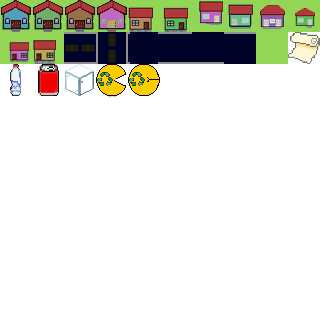
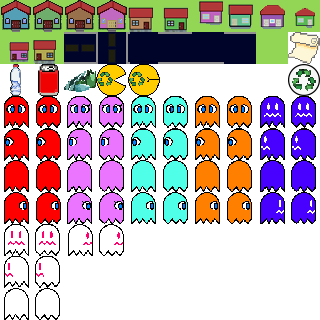
feat: the best tiles you will ever gonna see

diff --git a/internal/game/scene-level.go b/internal/game/scene-level.go
@@ -1,6 +1,7 @@
 package game
 
 import (
+	"image/color"
 	"math"
 	"pac-clone/internal/entities"
 	"pac-clone/internal/level"
@@ -14,37 +15,16 @@ import (
 )
 
 var (
-	level_loaded    bool = false
-	blinkyTex       rl.Texture2D
-	pinkyTex        rl.Texture2D
-	inkyTex         rl.Texture2D
-	clideTex        rl.Texture2D
-	tile            rl.Texture2D
-	start           *utils.Timer
-	tileTableStreet = map[Conection]rl.Vector2{
-		Horizontal: {X: 2, Y: 1},
-		Vertical:   {X: 3, Y: 1},
-		None:       {X: 4, Y: 1},
-	}
-	tileTable = map[Pick][]rl.Vector2{
-		Wall:   {{X: 0, Y: 0}, {X: 1, Y: 0}, {X: 2, Y: 0}, {X: 3, Y: 0}, {X: 4, Y: 0}, {X: 5, Y: 0}, {X: 8, Y: 1}, {X: 6, Y: 0}, {X: 7, Y: 0}, {X: 8, Y: 0}, {X: 9, Y: 0}, {X: 0, Y: 1}, {X: 1, Y: 1}, {X: 8, Y: 1}},
-		Point:  {{X: 0, Y: 2}, {X: 1, Y: 2}, {X: 2, Y: 2}, {X: 9, Y: 1}},
-		Power:  {{X: 3, Y: 2}},
-		Player: {{X: 3, Y: 2}, {X: 4, Y: 2}},
-	}
-	degree = map[entities.Direction]float32{
-		entities.Right: 0,
-		entities.Left:  180,
-		entities.Up:    270,
-		entities.Down:  90,
-	}
+	level_loaded bool = false
+	tile         rl.Texture2D
+	start        *utils.Timer
 )
 
-type Conection int32
+type Connection int32
 
 const (
-	None       Conection = 0
-	Horizontal Conection = iota
+	None       Connection = 0
+	Horizontal Connection = iota
 	Vertical
 )
 
@@ -121,6 +101,7 @@ func (g *Game) HandleLevel() {
 	if rl.IsKeyPressed(rl.KeyEscape) {
 		g.currentScene = Pause
 	}
+
 }
 
 func (g *Game) loadLevel() {
@@ -131,10 +112,6 @@ func (g *Game) loadLevel() {
 		return
 	}
 
-	blinkyTex = rl.LoadTexture("assets/blinky.png")
-	pinkyTex = rl.LoadTexture("assets/pinky.png")
-	inkyTex = rl.LoadTexture("assets/inky.png")
-	clideTex = rl.LoadTexture("assets/clyde.png")
 	tile = rl.LoadTexture("assets/tilemap.png")
 
 	g.ResetPositions()
@@ -149,11 +126,6 @@ func (g *Game) loadLevel() {
 
 func (g *Game) unloadLevel() {
 	g.Level.Unload()
-
-	blinkyTex = rl.Texture2D{}
-	pinkyTex = rl.Texture2D{}
-	inkyTex = rl.Texture2D{}
-	clideTex = rl.Texture2D{}
 
 	g.Player.Direction = entities.None
 	level_loaded = false
@@ -198,15 +170,16 @@ func (g *Game) Draw(bounds rl.Rectangle) {
 				})
 
 			case level.Power:
-				rl.DrawRectangle(
-					int32(cellRect.X+0.2*cellRect.Width),
-					int32(cellRect.Y+0.2*cellRect.Height),
-					int32(0.5*cellRect.Width),
-					int32(0.5*cellRect.Height),
-					rl.Orange)
+				DrawTile(tile, rl.Vector2{X: 9, Y: 2}, rl.Rectangle{
+					X:      cellRect.X + (float32(math.Cos(rl.GetTime())/20))*cellRect.Width,
+					Y:      cellRect.Y + (float32(math.Sin(rl.GetTime())/20))*cellRect.Height,
+					Width:  cellRect.Width,
+					Height: cellRect.Height,
+				})
 			}
 
 		}
+
 	}
 
 	DrawTileRot(tile, tileTable[Player][int(rl.GetTime()*4)%len(tileTable[Player])], rl.Rectangle{
@@ -217,50 +190,44 @@ func (g *Game) Draw(bounds rl.Rectangle) {
 	}, degree[g.Player.Direction])
 
 	for _, ghost := range g.Ghosts {
-
-		if ghost.State == entities.Dead {
-			rl.DrawRectangleRec(rl.Rectangle{
+		pos := tileGhost[ghost.Personality][ghost.State][ghost.Direction]
+		DrawTile(tile, pos[int(rl.GetTime()*20)%len(pos)],
+			rl.Rectangle{
 				X:      bounds.X + cellRect.Width*(ghost.X+(1-ghost.Width)/2),
 				Y:      bounds.Y + cellRect.Height*(ghost.Y+(1-ghost.Height)/2),
-				Width:  cellRect.Width * ghost.Width,
-				Height: cellRect.Height * ghost.Height,
-			},
-				rl.White)
-			continue
-		}
-
-		if ghost.State == entities.Scared {
-			rl.DrawRectangleRec(rl.Rectangle{
-				X:      bounds.X + cellRect.Width*(ghost.X+(1-ghost.Width)/2),
-				Y:      bounds.Y + cellRect.Height*(ghost.Y+(1-ghost.Height)/2),
-				Width:  cellRect.Width * ghost.Width,
-				Height: cellRect.Height * ghost.Height,
-			},
-				rl.DarkBlue)
-			continue
-		}
-
-		texture := &rl.Texture2D{}
-		switch ghost.Personality {
-		case entities.Blinky:
-			texture = &blinkyTex
-		case entities.Pinky:
-			texture = &pinkyTex
-		case entities.Inky:
-			texture = &inkyTex
-		case entities.Clyde:
-			texture = &clideTex
-		}
-
-		srcRect := rl.NewRectangle(0, 0, float32(cellRect.Width*ghost.Width), float32(cellRect.Height*ghost.Height))
-		position := rl.NewVector2(
-			bounds.X+cellRect.Width*(ghost.X+(1-ghost.Width)/2),
-			bounds.Y+cellRect.Height*(ghost.Y+(1-ghost.Height)/2),
-		)
-		texture.Width = int32(cellRect.Width * ghost.Width)
-		texture.Height = int32(cellRect.Height * ghost.Height)
-		rl.DrawTextureRec(*texture, srcRect, position, rl.White)
+				Width:  float32(cellRect.Width * ghost.Width),
+				Height: float32(cellRect.Height * ghost.Height),
+			})
 	}
+
+	borderColor := color.RGBA{19, 74, 39, 255}
+	rl.DrawRectangleRec(rl.Rectangle{
+		X:      bounds.X - cellRect.Width,
+		Y:      bounds.Y,
+		Width:  cellRect.Width,
+		Height: bounds.Height + cellRect.Height,
+	}, borderColor)
+
+	rl.DrawRectangleRec(rl.Rectangle{
+		X:      bounds.X + bounds.Width,
+		Y:      bounds.Y,
+		Width:  cellRect.Width,
+		Height: bounds.Height + cellRect.Height,
+	}, borderColor)
+
+	rl.DrawRectangleRec(rl.Rectangle{
+		X:      bounds.X - cellRect.Width,
+		Y:      bounds.Y - cellRect.Height,
+		Width:  bounds.Width + cellRect.Width*2,
+		Height: cellRect.Height,
+	}, borderColor)
+
+	rl.DrawRectangleRec(rl.Rectangle{
+		X:      bounds.X,
+		Y:      bounds.Y + bounds.Height,
+		Width:  bounds.Width,
+		Height: cellRect.Height,
+	}, borderColor)
 }
 
 func (g *Game) ResetPositions() {
@@ -296,7 +263,7 @@ func DrawTileRot(tileTexture rl.Texture2D, pos rl.Vector2, bounds rl.Rectangle, 
 	rl.DrawTexturePro(tileTexture, source, bounds, rl.Vector2{X: bounds.Width * 0.5, Y: bounds.Height * 0.5}, degree, rl.White)
 }
 
-func getConection(l *level.Level, i, j int32) Conection {
+func getConection(l *level.Level, i, j int32) Connection {
 	conection := None
 	if c := l.Grid[mv.Mod(i-1, l.Height)][j]; c != level.Wall && c != level.Door {
 		conection = Vertical

diff --git a/internal/game/constants.go b/internal/game/constants.go
@@ -1,0 +1,92 @@
+package game
+
+import (
+	"pac-clone/internal/entities"
+
+	rl "github.com/gen2brain/raylib-go/raylib"
+)
+
+var (
+	tileTableStreet = map[Connection]rl.Vector2{
+		Horizontal: {X: 2, Y: 1},
+		Vertical:   {X: 3, Y: 1},
+		None:       {X: 4, Y: 1},
+	}
+	tileTable = map[Pick][]rl.Vector2{
+		Wall:   {{X: 0, Y: 0}, {X: 1, Y: 0}, {X: 2, Y: 0}, {X: 3, Y: 0}, {X: 4, Y: 0}, {X: 5, Y: 0}, {X: 8, Y: 1}, {X: 6, Y: 0}, {X: 7, Y: 0}, {X: 8, Y: 0}, {X: 9, Y: 0}, {X: 0, Y: 1}, {X: 1, Y: 1}, {X: 8, Y: 1}},
+		Point:  {{X: 0, Y: 2}, {X: 1, Y: 2}, {X: 2, Y: 2}, {X: 9, Y: 1}},
+		Power:  {{X: 3, Y: 2}},
+		Player: {{X: 3, Y: 2}, {X: 4, Y: 2}},
+	}
+	tileScared = map[entities.Direction][]rl.Vector2{
+		entities.Down:  {{X: 8, Y: 3}, {X: 9, Y: 3}},
+		entities.Left:  {{X: 8, Y: 4}, {X: 9, Y: 4}},
+		entities.Up:    {{X: 8, Y: 6}, {X: 9, Y: 5}},
+		entities.Right: {{X: 8, Y: 6}, {X: 9, Y: 6}},
+	}
+	tileDead = map[entities.Direction][]rl.Vector2{
+		entities.Down:  {{X: 0, Y: 7}, {X: 1, Y: 7}},
+		entities.Left:  {{X: 0, Y: 8}, {X: 1, Y: 8}},
+		entities.Up:    {{X: 0, Y: 9}, {X: 1, Y: 9}},
+		entities.Right: {{X: 2, Y: 7}, {X: 3, Y: 7}},
+	}
+	tileGhost = map[entities.Personality]map[entities.State]map[entities.Direction][]rl.Vector2{
+		entities.Blinky: {
+			entities.Chase: {
+				entities.Down:  {{X: 0, Y: 3}, {X: 1, Y: 3}},
+				entities.Left:  {{X: 0, Y: 4}, {X: 1, Y: 4}},
+				entities.Up:    {{X: 0, Y: 5}, {X: 1, Y: 5}},
+				entities.Right: {{X: 0, Y: 6}, {X: 1, Y: 6}},
+				entities.None:  {{X: 0, Y: 3}, {X: 1, Y: 3}},
+			},
+			entities.Scared: tileScared,
+			entities.Dead:   tileDead,
+		},
+		entities.Pinky: {
+			entities.Chase: {
+				entities.Down:  {{X: 2, Y: 3}, {X: 3, Y: 3}},
+				entities.Left:  {{X: 2, Y: 4}, {X: 3, Y: 4}},
+				entities.Up:    {{X: 2, Y: 5}, {X: 3, Y: 5}},
+				entities.Right: {{X: 2, Y: 6}, {X: 3, Y: 6}},
+				entities.None:  {{X: 2, Y: 3}, {X: 3, Y: 3}},
+			},
+			entities.Scared: tileScared,
+			entities.Dead:   tileDead,
+		},
+		entities.Inky: {
+			entities.Chase: {
+				entities.Down:  {{X: 4, Y: 3}, {X: 5, Y: 3}},
+				entities.Left:  {{X: 4, Y: 4}, {X: 5, Y: 4}},
+				entities.Up:    {{X: 4, Y: 5}, {X: 5, Y: 5}},
+				entities.Right: {{X: 4, Y: 6}, {X: 5, Y: 6}},
+				entities.None:  {{X: 4, Y: 3}, {X: 5, Y: 3}},
+			},
+			entities.Scared: tileScared,
+			entities.Dead:   tileDead,
+		},
+		entities.Clyde: {
+			entities.Chase: {
+				entities.Down:  {{X: 6, Y: 3}, {X: 7, Y: 3}},
+				entities.Left:  {{X: 6, Y: 4}, {X: 7, Y: 4}},
+				entities.Up:    {{X: 6, Y: 5}, {X: 7, Y: 5}},
+				entities.Right: {{X: 6, Y: 6}, {X: 7, Y: 6}},
+				entities.None:  {{X: 6, Y: 3}, {X: 7, Y: 3}},
+			},
+			entities.CScared: {
+				entities.Down:  {{X: 6, Y: 3}, {X: 7, Y: 3}},
+				entities.Left:  {{X: 6, Y: 4}, {X: 7, Y: 4}},
+				entities.Up:    {{X: 6, Y: 5}, {X: 7, Y: 5}},
+				entities.Right: {{X: 6, Y: 6}, {X: 7, Y: 6}},
+				entities.None:  {{X: 6, Y: 3}, {X: 7, Y: 3}},
+			},
+			entities.Scared: tileScared,
+			entities.Dead:   tileDead,
+		},
+	}
+	degree = map[entities.Direction]float32{
+		entities.Right: 0,
+		entities.Left:  180,
+		entities.Up:    270,
+		entities.Down:  90,
+	}
+)

diff --git a/internal/game/scene-main-menu.go b/internal/game/scene-main-menu.go
@@ -79,7 +79,7 @@ func (g *Game) PlotMainTheme() {
 	scale := float32(g.Height) / float32(mainTheme.Height)
 	rl.DrawTexturePro(mainTheme,
 		rl.Rectangle{X: 0, Y: 0, Width: float32(mainTheme.Width), Height: float32(mainTheme.Height)},
-		rl.Rectangle{X: 0, Y: 0, Width: float32(mainTheme.Width) * scale, Height: float32(mainTheme.Height) * scale},
+		rl.Rectangle{X: float32(g.Width)/2 - float32(mainTheme.Width)*scale/2, Y: 0, Width: float32(mainTheme.Width) * scale, Height: float32(mainTheme.Height) * scale},
 		rl.Vector2{X: 0, Y: 0},
 		0,
 		rl.White,

diff --git a/internal/game/scene-editor.go b/internal/game/scene-editor.go
@@ -59,9 +59,9 @@ func (g *Game) HandleEditor() {
 		},
 	}).
 		Use(rl.Rectangle{
-			X:      float32(g.Width) - 200,
+			X:      float32(g.Width) - 100,
 			Y:      float32(g.Height) - 100,
-			Width:  200,
+			Width:  100,
 			Height: 100,
 		})
 

diff --git a/internal/movement/update-kill.go b/internal/movement/update-kill.go
@@ -13,7 +13,7 @@ func UpdateKill(p *ent.Player, ghosts []*ent.Ghost, l *level.Level, delta float3
 				p.Score += 1000
 			} else {
 				p.IsDead = true
-				p.Score -= 500
+				p.Score -= 250
 			}
 		}
 	}
